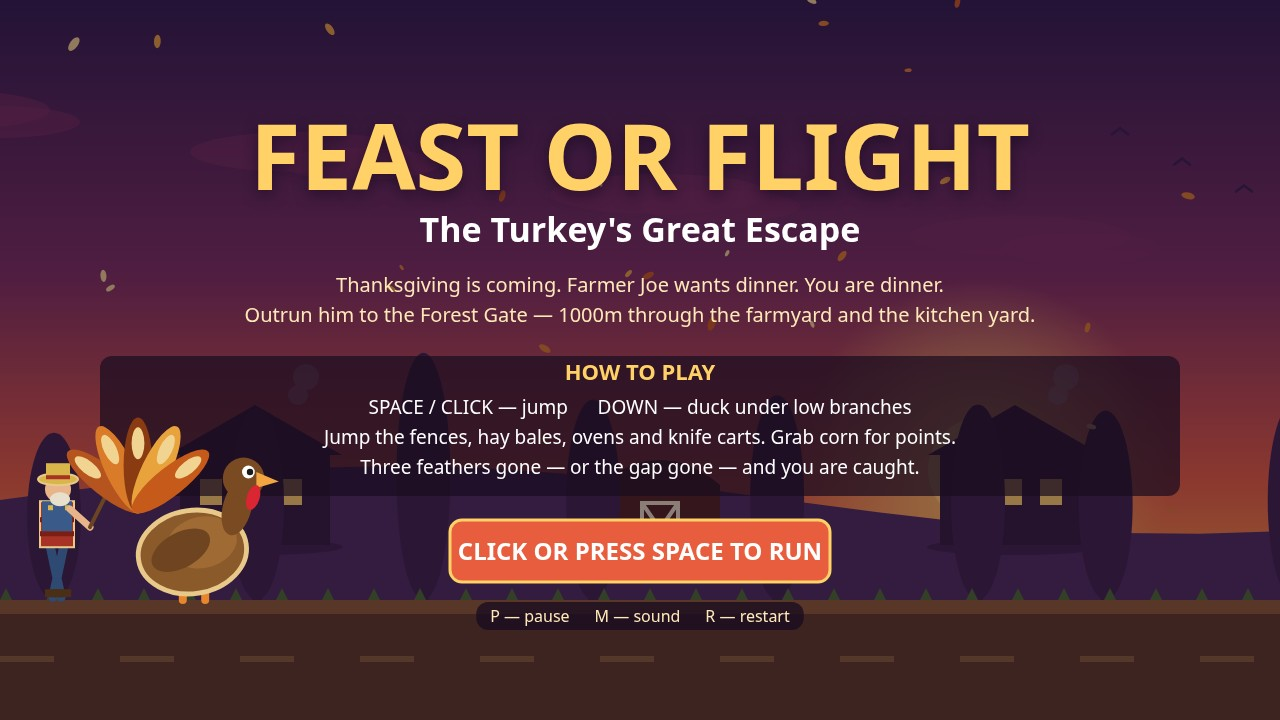
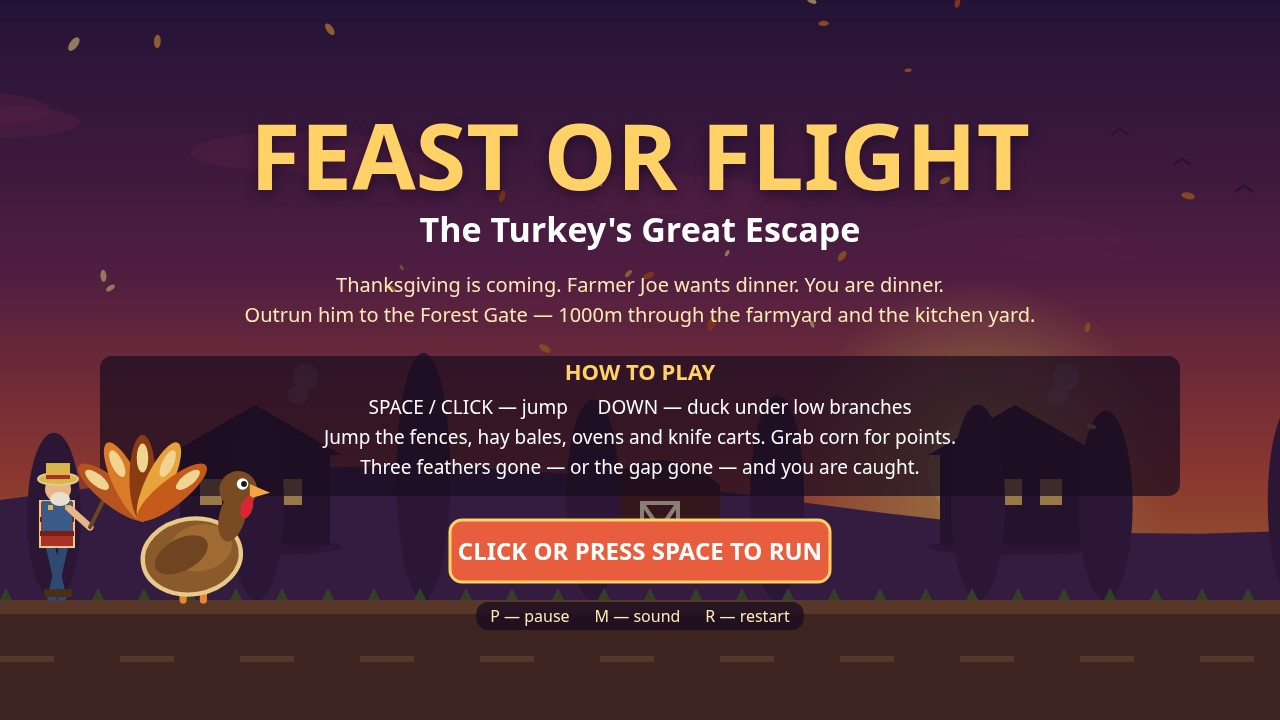
Revision v11: turkey 1.45x (midpoint between 1.3x too small and 1.6x still too big, per Ban) — title ~157px; duck stays ~127px wide (unscaled); cover retimed 500->350ms so the jump is caught mid-air again

Changed region(s): [[0.0312, 0.5806, 0.2188, 0.7944], [0.1562, 0.7944, 0.1875, 0.825]]

diff --git a/game/src/main.js b/game/src/main.js
@@ -160,12 +160,12 @@ function gameDraw() {
     if (Game.state === 'paused') hudDrawPause(ctx);
   } else if (Game.state === 'title') {
     hudDrawTitle(ctx, Game);
-    // The 1.6x bird would cover the left end of the instruction lines
-    // (its beak reaches x ~369 unshifted, line 3 starts ~x 365), so on
+    // The 1.45x bird would cover the left end of the instruction lines
+    // (its beak reaches x ~360 unshifted, line 3 starts ~x 365), so on
     // the title screen the farmer and the turkey stand 90px further
     // left, clear of the text. Relative spacing is unchanged; only the
-    // pair moves. The shift stays at 1.6x: beak lands ~x 279, clear of
-    // line 2 (~x 325) by ~45px.
+    // pair moves. The shift stays at 1.45x: beak lands ~x 270, clear of
+    // line 2 (~x 325) by ~55px.
     farmerDraw(ctx, Game.turkey.x - 90, farmerGap, Game.time);
     ctx.save();
     ctx.translate(-90, 0);

diff --git a/game/src/config.js b/game/src/config.js
@@ -17,10 +17,11 @@ const CFG = {
   // Dash, is ~290px tall at 1280-wide) while the hitbox, jump physics
   // and floor all keep using turkeyWidth/turkeyHeight, so the run plays
   // exactly as before. v4 at 1.3 was ~140px (too small), v5 at 1.9 was
-  // ~205px (too big, per Ban) — 1.6 lands ~172px, between the two. The
-  // duck pose is NOT scaled: its head must stay clear of the hanging
-  // branch leaves.
-  turkeyDrawScale: 1.6,
+  // ~205px (too big, per Ban), v6-v10 at 1.6 was ~172px — Ban 27 Nov
+  // ~20:16 WIB: STILL too big. v11 at 1.45 lands ~158px, the midpoint
+  // between 1.3 (too small) and 1.6 (too big). The duck pose is NOT
+  // scaled: its head must stay clear of the hanging branch leaves.
+  turkeyDrawScale: 1.45,
   jumpVelocity: 1000,
   gravity: 2900,
 

diff --git a/game/src/hud.js b/game/src/hud.js
@@ -190,8 +190,8 @@ function hudDrawTitle(ctx, game) {
   ctx.font = '19px system-ui, sans-serif';
   ctx.fillStyle = '#ffffff';
   ctx.fillText('SPACE / CLICK — jump      DOWN — duck under low branches', w / 2, 414);
-  // Line 2 is the longest: it starts at x ~325, clear of the 1.6x
-  // bird's beak (which reaches x ~279 on the title screen, after the
+  // Line 2 is the longest: it starts at x ~325, clear of the 1.45x
+  // bird's beak (which reaches x ~270 on the title screen, after the
   // 90px left shift). Keep it short enough that the turkey never
   // covers its first word.
   ctx.fillText('Jump the fences, hay bales, ovens and knife carts. Grab corn for points.', w / 2, 444);
